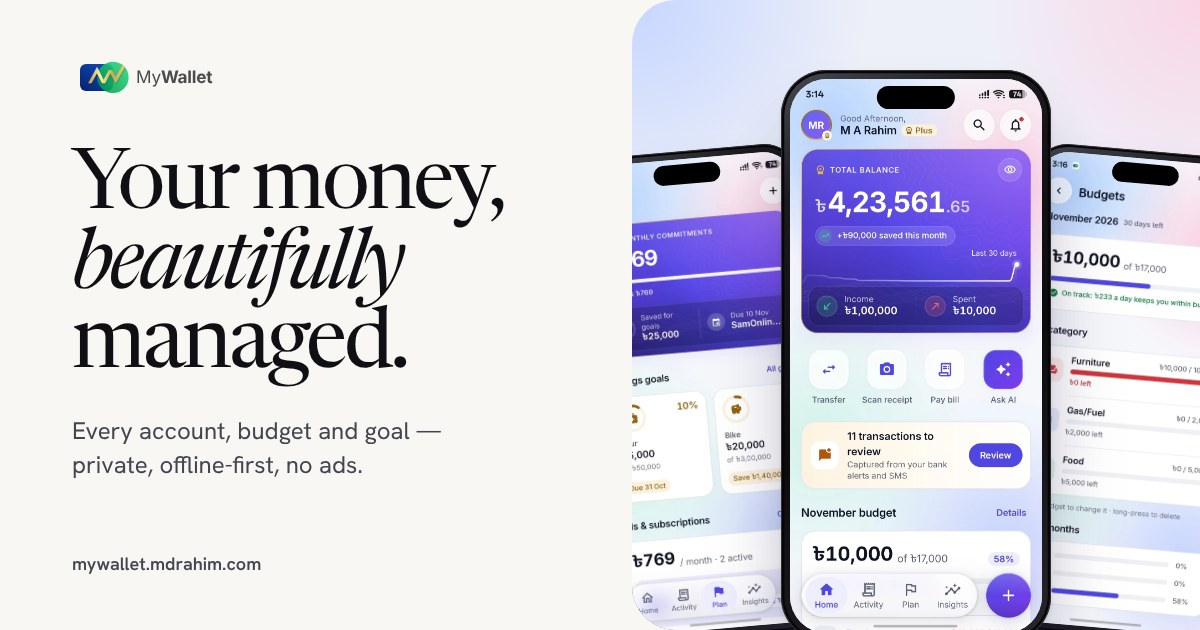
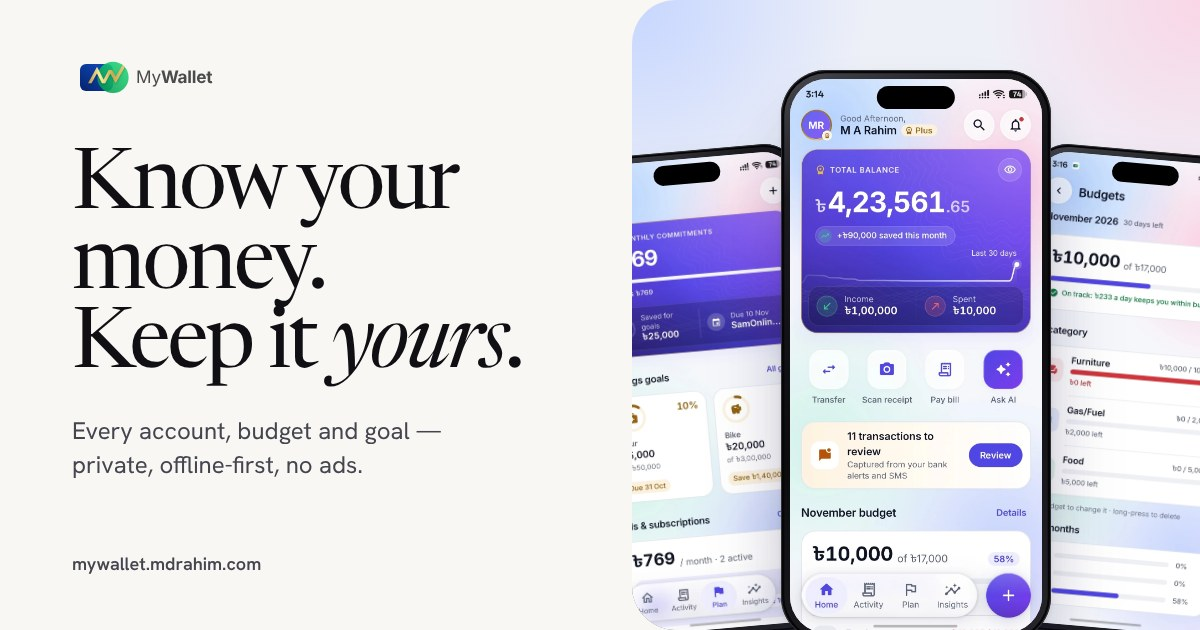
Sharpen website copy: new tagline, honest claims, real-life scenarios
- Hero tagline is now "Know your money. Keep it yours." with a supporting
  line that leads with what MyWallet does; headline sized so it always
  clears the 3D phone (45px+ gap from 1024px to 1920px wide)
- Search title and description drop the unprovable "#1" and "ultimate":
  "MyWallet — Private, Offline Finance App & Budget Tracker"
- Remove the six placeholder testimonials (they were not real) and add a
  "Made for real life" section of everyday scenarios tied to real features
- Accuracy fixes against the app, privacy policy and help content: balance
  hiding, Secure Vault wording, comparison table claims qualified with
  "usually/often", Ask MyWallet named consistently in the FAQ
- Scan receipts copy reflects that it reads the receipt and keeps the photo
- Clearer manifesto and bank-SMS wording
- Share image regenerated with the new tagline

Claude-Session: https://claude.ai/code/session_01WMd4fpzqDpkv64Ep9zXJbK

Changed region(s): [[0.0617, 0.2413, 0.4317, 0.6333]]

diff --git a/index.html b/index.html
@@ -3,33 +3,33 @@
 <head>
   <meta charset="UTF-8">
   <meta name="viewport" content="width=device-width, initial-scale=1.0, viewport-fit=cover">
-  <title>MyWallet — #1 Finance App & Offline Fintech Budget Tracker</title>
+  <title>MyWallet — Private, Offline Finance App &amp; Budget Tracker</title>
   <script>(function(){var d=document.documentElement,c='js',m=!window.matchMedia('(prefers-reduced-motion: reduce)').matches;if(m){c+=' motion';try{if(!sessionStorage.getItem('mw-intro')){c+=' has-intro';sessionStorage.setItem('mw-intro','1');}}catch(e){}}d.className=c;})();</script>
   <link rel="icon" href="/assets/logos/mywallet_logo(favicon).svg" type="image/svg+xml">
   <meta name="theme-color" content="#f8f7f4">
-  <meta name="description" content="Looking for the best fintech app? MyWallet (my wallet) is the ultimate offline Finance App. Track expenses, monitor net worth, and keep data private.">
+  <meta name="description" content="Track spending, budgets, savings goals and every account in one beautiful app. Your data stays on your phone — no bank logins, no ads.">
   <meta name="keywords" content="MyWallet, mywallet, my wallet, My Wallet, MYWALLET, Finance App, fintech, fintech app, offline finance app, private budget tracker, AI expense tracker without bank sync, private net worth tracker, secure wallet app, money manager, Android finance app">
   <meta name="author" content="MD Rahim">
   <meta name="robots" content="index, follow">
   <link rel="canonical" href="https://mywallet.mdrahim.com/">
 
   <!-- Open Graph -->
-  <meta property="og:title" content="MyWallet — #1 Finance App & Offline Fintech Budget Tracker">
-  <meta property="og:description" content="Looking for the best fintech app? MyWallet (my wallet) is the ultimate offline Finance App. Track expenses, monitor net worth, and keep data private.">
+  <meta property="og:title" content="MyWallet — Private, Offline Finance App &amp; Budget Tracker">
+  <meta property="og:description" content="Track spending, budgets, savings goals and every account in one beautiful app. Your data stays on your phone — no bank logins, no ads.">
   <meta property="og:type" content="website">
   <meta property="og:url" content="https://mywallet.mdrahim.com/">
   <meta property="og:image" content="https://mywallet.mdrahim.com/assets/images/og-image.jpg">
   <meta property="og:image:width" content="1200">
   <meta property="og:image:height" content="630">
   <meta property="og:image:type" content="image/jpeg">
-  <meta property="og:image:alt" content="MyWallet — your money, beautifully managed. Three screens of the MyWallet app.">
+  <meta property="og:image:alt" content="MyWallet — Know your money. Keep it yours. Three screens of the MyWallet app.">
   <meta property="og:site_name" content="MyWallet">
   <meta property="og:locale" content="en_US">
 
   <!-- Twitter Card -->
   <meta name="twitter:card" content="summary_large_image">
-  <meta name="twitter:title" content="MyWallet — #1 Finance App & Offline Fintech Budget Tracker">
-  <meta name="twitter:description" content="Looking for the best fintech app? MyWallet (my wallet) is the ultimate offline Finance App. Track expenses, monitor net worth, and keep data private.">
+  <meta name="twitter:title" content="MyWallet — Private, Offline Finance App &amp; Budget Tracker">
+  <meta name="twitter:description" content="Track spending, budgets, savings goals and every account in one beautiful app. Your data stays on your phone — no bank logins, no ads.">
   <meta name="twitter:image" content="https://mywallet.mdrahim.com/assets/images/og-image.jpg">
 
   <!-- Fonts -->
@@ -39,7 +39,7 @@
   <link href="https://fonts.googleapis.com/css2?family=Noto+Sans+Bengali:wght@500..700&text=%E0%A7%B3&display=swap" rel="stylesheet">
 
   <link rel="preload" as="image" href="/assets/images/app/home.webp" fetchpriority="high">
-  <link rel="stylesheet" href="/css/style.css?v=9.1">
+  <link rel="stylesheet" href="/css/style.css?v=9.2">
 
   <!-- JSON-LD Structured Data -->
   <script type="application/ld+json">
@@ -66,7 +66,7 @@
         "acceptedAnswer": { "@type": "Answer", "text": "No. MyWallet is built offline-first: your financial data is stored on your device in a local database. The only exception is an account you choose to share with people you invite, which is stored in the cloud so they can see it." } },
       { "@type": "Question", "name": "Can I use MyWallet without linking my bank account?",
         "acceptedAnswer": { "@type": "Answer", "text": "Yes. MyWallet never asks for your bank login. Add transactions manually, type them in plain language with Ask MyWallet, or turn on optional bank SMS auto-capture, which runs entirely on your phone." } },
-      { "@type": "Question", "name": "How does the AI Assistant work offline?",
+      { "@type": "Question", "name": "How does Ask MyWallet work offline?",
         "acceptedAnswer": { "@type": "Answer", "text": "Ask MyWallet uses a natural language processing engine that runs 100% on your device. Your questions and entries are never sent to a cloud AI provider." } },
       { "@type": "Question", "name": "Is MyWallet free?",
         "acceptedAnswer": { "@type": "Answer", "text": "Yes. MyWallet is free to download and use, with no ads. MyWallet Plus is an optional subscription, bought through Google Play, that you can cancel at any time." } },
@@ -155,9 +155,9 @@
             <b>New</b><span class="sep" aria-hidden="true"></span>Share an account with your family
             <svg aria-hidden="true"><use href="/assets/icons.svg#i-arrow-right"/></svg>
           </a>
-          <h1 class="s-title split">Your money, <em>beautifully</em> managed.</h1>
+          <h1 class="s-title split"><span class="l">Know your money.</span> <span class="l">Keep it <em>yours</em>.</span></h1>
           <div class="s-intro reveal" style="--d:3">
-            <p class="lede">Every account, budget and goal in one calm app — with your financial data kept on your phone. No bank logins. No ads.</p>
+            <p class="lede">MyWallet brings every account, budget and goal into one beautiful app — and keeps your financial data on your phone. No bank logins. No ads.</p>
             <div class="hero-cta">
               <a href="https://play.google.com/store/apps/details?id=com.mdrahim.mywallet" class="play-badge" target="_blank" rel="noopener" aria-label="Get MyWallet on Google Play">
                 <svg aria-hidden="true"><use href="/assets/icons.svg#i-play"/></svg>
@@ -244,7 +244,7 @@
           <div class="fact"><b>100%</b><span>of Ask MyWallet’s AI runs on your phone, even offline.</span></div>
           <div class="fact"><b>0</b><span>ads, trackers or data brokers. Not now, not ever.</span></div>
           <div class="fact"><b>256-bit</b><span>AES encryption protects everything in your Secure Vault.</span></div>
-          <div class="fact"><b>1 tap</b><span>hides every balance when someone’s looking over your shoulder.</span></div>
+          <div class="fact"><b>1 tap</b><span>hides your balances when someone’s looking over your shoulder.</span></div>
         </div>
       </div>
     </section>
@@ -260,7 +260,7 @@
     <!-- ═══ Manifesto ═══ -->
     <section class="manifesto" aria-label="Why we built MyWallet">
       <div class="wrap">
-        <p class="scrub" data-scroll><span class="mark" aria-hidden="true"></span>Your money is personal. It shouldn’t be sold, synced to strangers or buried under ads. So we built MyWallet to keep it on your phone — <em>calm</em>, private and beautifully clear.</p>
+        <p class="scrub" data-scroll><span class="mark" aria-hidden="true"></span>Your money is personal. It shouldn’t be sold, mined for ads or parked on a stranger’s server. So we built MyWallet to keep it on your phone — <em>calm</em>, private and beautifully clear.</p>
         <div class="manifesto-sign"><img src="/assets/logos/mywallet_logo(favicon).svg" alt="" width="34" height="34"><span>The MyWallet principle</span></div>
       </div>
     </section>
@@ -316,7 +316,7 @@
           <article class="panel reveal">
             <div class="panel-copy">
               <h3>Bank SMS, captured for you.</h3>
-              <p>Turn on bank auto-capture and MyWallet records transactions from your bank and mobile-wallet alerts, right on your phone. You review; it files.</p>
+              <p>Turn on bank auto-capture and MyWallet records transactions from your bank and mobile-wallet alerts, right on your phone. You just review and confirm.</p>
             </div>
             <div class="panel-art" aria-hidden="true">
               <div class="ui-card">
@@ -407,7 +407,7 @@
             <div class="hs-art" aria-hidden="true">
               <div class="v-receipt"><b>Receipt</b><i></i><i></i><i></i><div class="tot"><span>Total</span><b>৳2,345.50</b></div></div>
             </div>
-            <p>Keep a photo of the receipt with its transaction.</p>
+            <p>Snap a receipt and MyWallet fills in the transaction — and keeps the photo with it.</p>
           </article>
           <article class="hs-card">
             <span class="n">04</span><h3>Loans &amp; EMI</h3>
@@ -484,7 +484,7 @@
         <div class="privacy-grid reveal" style="--d:2">
           <div class="principle"><span class="k">i.</span><h3>On your phone by default</h3><p>Transactions, budgets and goals live on your device. Nothing leaves it unless you choose to back up or share.</p></div>
           <div class="principle"><span class="k">ii.</span><h3>AI that stays on-device</h3><p>Ask MyWallet parses and answers on your phone. Your questions never reach a cloud AI provider.</p></div>
-          <div class="principle"><span class="k">iii.</span><h3>An encrypted Secure Vault</h3><p>PINs and sensitive notes are encrypted at rest with AES-256, separate from everything else.</p></div>
+          <div class="principle"><span class="k">iii.</span><h3>An encrypted Secure Vault</h3><p>PINs, ID numbers and other sensitive details are encrypted at rest with AES-256.</p></div>
           <div class="principle"><span class="k">iv.</span><h3>No ads, ever</h3><p>No advertising, no analytics trackers and no third-party data sharing.</p></div>
         </div>
         <a href="/privacy/" class="arrow-link">Read the privacy policy <svg aria-hidden="true"><use href="/assets/icons.svg#i-arrow-right"/></svg></a>
@@ -507,48 +507,47 @@
             <tr>
               <th scope="row">Where your data lives</th>
               <td class="us"><span class="c"><svg aria-hidden="true"><use href="/assets/icons.svg#i-check"/></svg><span><span class="who">MyWallet: </span>On your phone</span></span></td>
-              <td><span class="c"><svg aria-hidden="true"><use href="/assets/icons.svg#i-x"/></svg><span><span class="who">Others: </span>On their servers</span></span></td>
+              <td><span class="c"><svg aria-hidden="true"><use href="/assets/icons.svg#i-x"/></svg><span><span class="who">Others: </span>Usually on their servers</span></span></td>
             </tr>
             <tr>
               <th scope="row">Price</th>
               <td class="us"><span class="c"><svg aria-hidden="true"><use href="/assets/icons.svg#i-check"/></svg><span><span class="who">MyWallet: </span>Free, with optional Plus</span></span></td>
-              <td><span class="c"><svg aria-hidden="true"><use href="/assets/icons.svg#i-x"/></svg><span><span class="who">Others: </span>Monthly subscription</span></span></td>
+              <td><span class="c"><svg aria-hidden="true"><use href="/assets/icons.svg#i-x"/></svg><span><span class="who">Others: </span>Often a monthly subscription</span></span></td>
             </tr>
             <tr>
               <th scope="row">Ads &amp; tracking</th>
               <td class="us"><span class="c"><svg aria-hidden="true"><use href="/assets/icons.svg#i-check"/></svg><span><span class="who">MyWallet: </span>None, ever</span></span></td>
-              <td><span class="c"><svg aria-hidden="true"><use href="/assets/icons.svg#i-x"/></svg><span><span class="who">Others: </span>Targeted ads &amp; trackers</span></span></td>
+              <td><span class="c"><svg aria-hidden="true"><use href="/assets/icons.svg#i-x"/></svg><span><span class="who">Others: </span>Often ads or trackers</span></span></td>
             </tr>
             <tr>
               <th scope="row">Bank connection</th>
               <td class="us"><span class="c"><svg aria-hidden="true"><use href="/assets/icons.svg#i-check"/></svg><span><span class="who">MyWallet: </span>Not needed — manual, AI or SMS</span></span></td>
-              <td><span class="c"><svg aria-hidden="true"><use href="/assets/icons.svg#i-x"/></svg><span><span class="who">Others: </span>Bank login required</span></span></td>
+              <td><span class="c"><svg aria-hidden="true"><use href="/assets/icons.svg#i-x"/></svg><span><span class="who">Others: </span>Usually your bank login</span></span></td>
             </tr>
             <tr>
               <th scope="row">AI processing</th>
               <td class="us"><span class="c"><svg aria-hidden="true"><use href="/assets/icons.svg#i-check"/></svg><span><span class="who">MyWallet: </span>On your phone, offline</span></span></td>
-              <td><span class="c"><svg aria-hidden="true"><use href="/assets/icons.svg#i-x"/></svg><span><span class="who">Others: </span>Sent to the cloud</span></span></td>
+              <td><span class="c"><svg aria-hidden="true"><use href="/assets/icons.svg#i-x"/></svg><span><span class="who">Others: </span>Usually sent to the cloud</span></span></td>
             </tr>
           </tbody>
         </table>
       </div>
     </section>
 
-    <!-- ═══ Voices ═══ -->
-    <section class="section" id="testimonials">
+    <!-- ═══ Made for real life ═══ -->
+    <section class="section" id="made-for">
       <div class="wrap">
-        <figure class="voices-lead reveal">
-          <blockquote>“Finally an app that doesn’t ask for my bank credentials. The local AI parsing is shockingly fast.”</blockquote>
-          <figcaption><span class="initials" aria-hidden="true">ST</span><span><b>Sarah T.</b>Privacy advocate</span></figcaption>
-        </figure>
-        <div class="voices-row reveal" style="--d:1">
-          <figure class="voice"><blockquote>“The Net Worth tracker is beautiful. Love being able to track my crypto and physical assets offline.”</blockquote><figcaption><b>Mark D.</b>Wealth builder</figcaption></figure>
-          <figure class="voice"><blockquote>“No subscription fee! I’ve been looking for a free, premium alternative to YNAB for years.”</blockquote><figcaption><b>Jessica M.</b>Student</figcaption></figure>
-          <figure class="voice"><blockquote>“The liquid depth design on the cards is stunning. Easily the best-looking finance app on Android.”</blockquote><figcaption><b>Alex R.</b>UI designer</figcaption></figure>
-          <figure class="voice"><blockquote>“I love how the categories auto-sort based on my SMS receipts. It saves me hours of manual logging.”</blockquote><figcaption><b>Michael C.</b>Freelancer</figcaption></figure>
-          <figure class="voice"><blockquote>“A truly premium experience that makes managing money feel effortless.”</blockquote><figcaption><b>Emily K.</b>Entrepreneur</figcaption></figure>
+        <div class="voices-lead reveal">
+          <p class="label">Made for real life</p>
+          <p class="big">Built for the way money actually moves — between banks, bKash, cash and the people you <em>share</em> it with.</p>
         </div>
-        <p class="voices-note">Feedback from our early-access community.</p>
+        <div class="voices-row reveal" style="--d:1">
+          <div class="voice"><b>Households</b><p>Share one account for rent and groceries, and always see who added what.</p></div>
+          <div class="voice"><b>Freelancers</b><p>Irregular income? See what came in, what’s already committed and what’s safe to spend.</p></div>
+          <div class="voice"><b>Students</b><p>A daily allowance tells you what you can spend today and still finish the month on budget.</p></div>
+          <div class="voice"><b>Savers</b><p>Goals with target dates for the trip, the bike or the rainy-day fund — with progress you can feel.</p></div>
+          <div class="voice"><b>Privacy-first people</b><p>No bank login, no ads, and an assistant that never sends your questions to the cloud.</p></div>
+        </div>
       </div>
     </section>
 
@@ -571,7 +570,7 @@
             <div class="acc-a"><div><div class="acc-body"><p>Yes. MyWallet never asks for your bank login. Add transactions manually, type them in plain language with Ask MyWallet, or turn on optional bank SMS auto-capture, which runs entirely on your phone.</p></div></div></div>
           </div>
           <div class="acc-item">
-            <button class="acc-q" type="button" aria-expanded="false">How does the AI Assistant work offline?<span class="acc-icon" aria-hidden="true"></span></button>
+            <button class="acc-q" type="button" aria-expanded="false">How does Ask MyWallet work offline?<span class="acc-icon" aria-hidden="true"></span></button>
             <div class="acc-a"><div><div class="acc-body"><p>Ask MyWallet uses a natural language processing (NLP) engine that parses your free-text input 100% on your device. Your questions and entries are never sent to a cloud AI provider.</p></div></div></div>
           </div>
           <div class="acc-item">
@@ -670,6 +669,6 @@
     <svg aria-hidden="true"><use href="/assets/icons.svg#i-arrow-up"/></svg>
   </button>
 
-  <script src="/js/main.js?v=4.1" defer></script>
+  <script src="/js/main.js?v=4.2" defer></script>
 </body>
 </html>

diff --git a/css/style.css b/css/style.css
@@ -301,9 +301,10 @@ p.label { display: flex; width: fit-content; margin-bottom: 22px; }
 .s-hero { position: relative; z-index: 3; padding-top: calc(var(--nav-h) + clamp(32px, 4.5vw, 64px)); }
 .s-title {
   font-family: var(--serif); font-weight: 400;
-  font-size: min(clamp(3.2rem, 1rem + 7.2vw, 8.4rem), 13.6vh); line-height: 0.93; letter-spacing: -0.045em;
-  max-width: 6.6em;
+  font-size: min(clamp(3rem, 0.2rem + 6.7vw, 6.5rem), 14vh); line-height: 0.95; letter-spacing: -0.045em;
 }
+.s-title .l { display: block; }
+@media (min-width: 961px) { .s-title .l { white-space: nowrap; } }
 .s-title em { font-style: italic; letter-spacing: -0.035em; }
 .s-intro { display: flex; flex-direction: column; align-items: flex-start; gap: 24px; margin-top: clamp(22px, 2.6vw, 36px); }
 .s-intro .lede { max-width: 430px; }
@@ -353,7 +354,7 @@ p.label { display: flex; width: fit-content; margin-bottom: 22px; }
 /* Motion layout */
 .motion .scrolly {
   height: 540vh;
-  --x0: min(23vw, 380px); --x1: max(-21vw, -370px);
+  --x0: min(25vw, 420px); --x1: max(-21vw, -370px);
   --y0: 5vh; --y1: 1vh;
   --ry0: -26deg; --ry1: 10deg;
   --rx0: 12deg; --rx1: 2deg;
@@ -916,17 +917,19 @@ p.label { display: flex; width: fit-content; margin-bottom: 22px; }
 
 /* ── 16. Voices ────────────────────────────────────────────── */
 .voices-lead { max-width: 1040px; }
-.voices-lead blockquote {
+.voices-lead .big {
+  max-width: 26ch;
   font-family: var(--serif); font-weight: 400;
   font-size: clamp(2rem, 1.3rem + 2.6vw, 3.6rem); line-height: 1.08; letter-spacing: -0.03em;
-  text-indent: -0.42em;
 }
+.voices-lead .big em { font-style: italic; }
 .voices-lead figcaption { display: flex; align-items: center; gap: 14px; margin-top: 32px; font-size: 0.9375rem; color: var(--ink-2); }
 .voices-lead figcaption b { display: block; color: var(--ink); font-weight: 650; }
 .voices-row { display: grid; grid-template-columns: repeat(5, 1fr); margin-top: clamp(56px, 7vw, 96px); border-top: 1px solid var(--line); }
 .voice { padding: 26px 24px 0 0; }
 .voice + .voice { padding-left: 24px; border-left: 1px solid var(--line); }
-.voice blockquote { font-size: 0.9625rem; line-height: 1.6; color: var(--ink); }
+.voice b { display: block; font-size: 1.0625rem; font-weight: 650; letter-spacing: -0.015em; }
+.voice p { margin-top: 10px; font-size: 0.9375rem; line-height: 1.6; color: var(--ink-2); }
 .voice figcaption { margin-top: 16px; font-size: 0.8125rem; color: var(--ink-3); }
 .voice figcaption b { display: block; color: var(--ink); font-weight: 650; }
 .voices-note { margin-top: 32px; font-size: 0.8125rem; color: var(--ink-3); }

diff --git a/404.html b/404.html
@@ -13,7 +13,7 @@
   <link rel="preconnect" href="https://fonts.gstatic.com" crossorigin>
   <link href="https://fonts.googleapis.com/css2?family=Hanken+Grotesk:wght@400..700&family=Newsreader:ital,opsz,wght@0,6..72,300..600;1,6..72,300..600&display=swap" rel="stylesheet">
   <link href="https://fonts.googleapis.com/css2?family=Noto+Sans+Bengali:wght@500..700&text=%E0%A7%B3&display=swap" rel="stylesheet">
-  <link rel="stylesheet" href="/css/style.css?v=9.1">
+  <link rel="stylesheet" href="/css/style.css?v=9.2">
 </head>
 <body>
   <a class="skip-link" href="#main">Skip to content</a>
@@ -114,6 +114,6 @@
     <svg aria-hidden="true"><use href="/assets/icons.svg#i-arrow-up"/></svg>
   </button>
 
-  <script src="/js/main.js?v=4.1" defer></script>
+  <script src="/js/main.js?v=4.2" defer></script>
 </body>
 </html>

diff --git a/help/index.html b/help/index.html
@@ -14,7 +14,7 @@
   <link rel="preconnect" href="https://fonts.gstatic.com" crossorigin>
   <link href="https://fonts.googleapis.com/css2?family=Hanken+Grotesk:wght@400..700&family=Newsreader:ital,opsz,wght@0,6..72,300..600;1,6..72,300..600&display=swap" rel="stylesheet">
   <link href="https://fonts.googleapis.com/css2?family=Noto+Sans+Bengali:wght@500..700&text=%E0%A7%B3&display=swap" rel="stylesheet">
-  <link rel="stylesheet" href="/css/style.css?v=9.1">
+  <link rel="stylesheet" href="/css/style.css?v=9.2">
 </head>
 <body>
   <a class="skip-link" href="#main">Skip to content</a>
@@ -341,6 +341,6 @@
     <svg aria-hidden="true"><use href="/assets/icons.svg#i-arrow-up"/></svg>
   </button>
 
-  <script src="/js/main.js?v=4.1" defer></script>
+  <script src="/js/main.js?v=4.2" defer></script>
 </body>
 </html>

diff --git a/privacy/index.html b/privacy/index.html
@@ -14,7 +14,7 @@
   <link rel="preconnect" href="https://fonts.gstatic.com" crossorigin>
   <link href="https://fonts.googleapis.com/css2?family=Hanken+Grotesk:wght@400..700&family=Newsreader:ital,opsz,wght@0,6..72,300..600;1,6..72,300..600&display=swap" rel="stylesheet">
   <link href="https://fonts.googleapis.com/css2?family=Noto+Sans+Bengali:wght@500..700&text=%E0%A7%B3&display=swap" rel="stylesheet">
-  <link rel="stylesheet" href="/css/style.css?v=9.1">
+  <link rel="stylesheet" href="/css/style.css?v=9.2">
 </head>
 <body>
   <a class="skip-link" href="#main">Skip to content</a>
@@ -296,6 +296,6 @@
     <svg aria-hidden="true"><use href="/assets/icons.svg#i-arrow-up"/></svg>
   </button>
 
-  <script src="/js/main.js?v=4.1" defer></script>
+  <script src="/js/main.js?v=4.2" defer></script>
 </body>
 </html>

diff --git a/terms/index.html b/terms/index.html
@@ -14,7 +14,7 @@
   <link rel="preconnect" href="https://fonts.gstatic.com" crossorigin>
   <link href="https://fonts.googleapis.com/css2?family=Hanken+Grotesk:wght@400..700&family=Newsreader:ital,opsz,wght@0,6..72,300..600;1,6..72,300..600&display=swap" rel="stylesheet">
   <link href="https://fonts.googleapis.com/css2?family=Noto+Sans+Bengali:wght@500..700&text=%E0%A7%B3&display=swap" rel="stylesheet">
-  <link rel="stylesheet" href="/css/style.css?v=9.1">
+  <link rel="stylesheet" href="/css/style.css?v=9.2">
 </head>
 <body>
   <a class="skip-link" href="#main">Skip to content</a>
@@ -255,6 +255,6 @@
     <svg aria-hidden="true"><use href="/assets/icons.svg#i-arrow-up"/></svg>
   </button>
 
-  <script src="/js/main.js?v=4.1" defer></script>
+  <script src="/js/main.js?v=4.2" defer></script>
 </body>
 </html>

diff --git a/js/main.js b/js/main.js
@@ -248,7 +248,7 @@
         const vh = pin.offsetHeight / 100;
         return narrow.matches
           ? { x0: 0, x1: 0, y0: 41 * vh, y1: -15 * vh, rx0: 24, rx1: 0, ry0: -16, ry1: 0, rz0: 6, rz1: 0, lift: 9 * vh }
-          : { x0: Math.min(23 * vw, 380), x1: Math.max(-21 * vw, -370), y0: 5 * vh, y1: vh, rx0: 12, rx1: 2, ry0: -26, ry1: 10, rz0: 5, rz1: 0, lift: 9 * vh };
+          : { x0: Math.min(25 * vw, 420), x1: Math.max(-21 * vw, -370), y0: 5 * vh, y1: vh, rx0: 12, rx1: 2, ry0: -26, ry1: 10, rz0: 5, rz1: 0, lift: 9 * vh };
       };
       let P = pose();
       window.addEventListener('resize', () => { P = pose(); });

diff --git a/delete-account/index.html b/delete-account/index.html
@@ -12,7 +12,7 @@
   <link rel="preconnect" href="https://fonts.gstatic.com" crossorigin>
   <link href="https://fonts.googleapis.com/css2?family=Hanken+Grotesk:wght@400..700&family=Newsreader:ital,opsz,wght@0,6..72,300..600;1,6..72,300..600&display=swap" rel="stylesheet">
   <link href="https://fonts.googleapis.com/css2?family=Noto+Sans+Bengali:wght@500..700&text=%E0%A7%B3&display=swap" rel="stylesheet">
-  <link rel="stylesheet" href="/css/style.css?v=9.1">
+  <link rel="stylesheet" href="/css/style.css?v=9.2">
 </head>
 <body>
 <header class="nav is-solid">

diff --git a/join/index.html b/join/index.html
@@ -12,7 +12,7 @@
   <link rel="preconnect" href="https://fonts.gstatic.com" crossorigin>
   <link href="https://fonts.googleapis.com/css2?family=Hanken+Grotesk:wght@400..700&family=Newsreader:ital,opsz,wght@0,6..72,300..600;1,6..72,300..600&display=swap" rel="stylesheet">
   <link href="https://fonts.googleapis.com/css2?family=Noto+Sans+Bengali:wght@500..700&text=%E0%A7%B3&display=swap" rel="stylesheet">
-  <link rel="stylesheet" href="/css/style.css?v=9.1">
+  <link rel="stylesheet" href="/css/style.css?v=9.2">
 </head>
 <body>
 <header class="nav is-solid">
